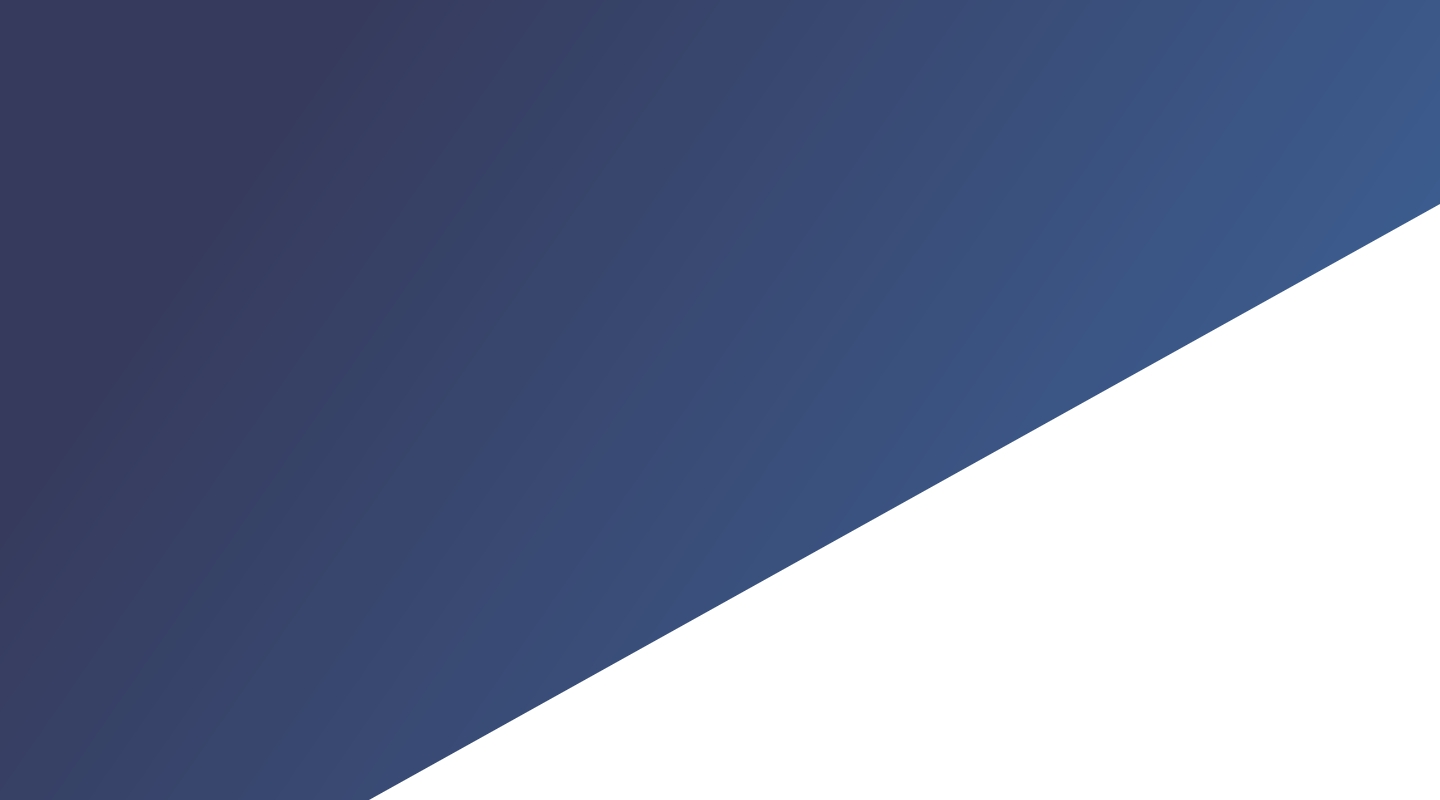
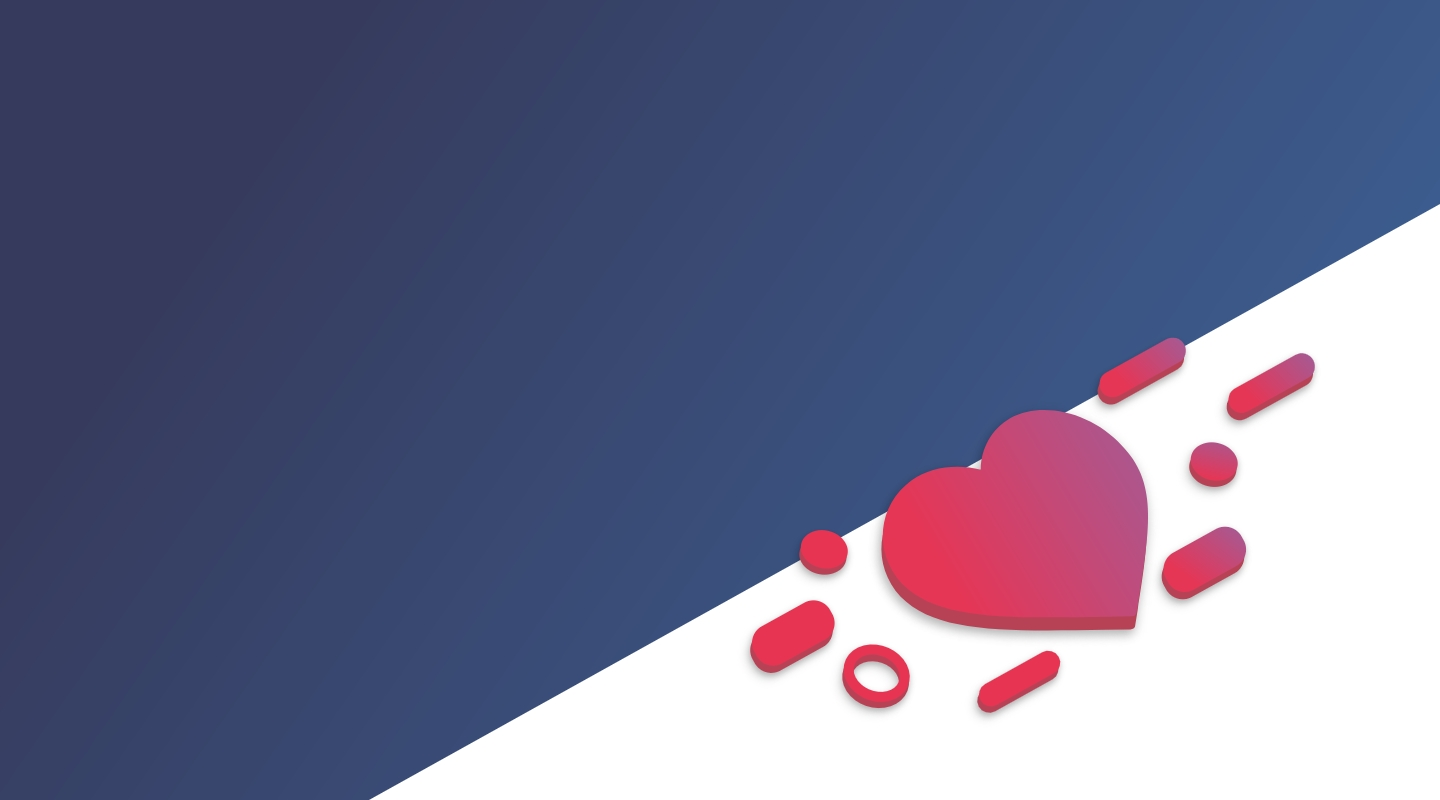
start page update

Changed region(s): [[0.5, 0.4062, 0.875, 0.9062], [0.8438, 0.4375, 0.9375, 0.5312]]

diff --git a/pages/start/index.css b/pages/start/index.css
@@ -1,13 +1,11 @@
-/*@font-face {
-    font-family: 'Geometria';
+@font-face {
+    font-family: 'Geometria', 'Gilroy';
     font-style: normal;
     font-weight: 400;
     src: local(''),
-    	url('/template/fonts/Geometria-ExtraBold.eot') format('eot'),
     	url('/template/fonts/Geometria-ExtraBold.ttf') format('ttf'),
-    	url('/template/fonts/Geometria-ExtraBold.woff') format('woff'),
-    	url('/template/fonts/Geometria-ExtraBold.woff2') format('woff2');
-}*/
+    	url('/template/fonts/gilroy-light.otf') format('otf');
+}
 
 ul {
 	padding: 0;
@@ -15,8 +13,8 @@ ul {
 
 body {
 	color: #FFFFFF;
-	/*font-family: 'Geometria';
-	font-weight: 400;*/
+	font-family: 'Geometria';
+	font-weight: 400;
 	font-size: 18px;
 	line-height: 21px;	
 }
@@ -35,9 +33,8 @@ button {
 }
 
 .wrapper-full {
-	
-	max-width: 1500px;
-	padding: 0 30px 0 30px;
+	max-width: 1440px;
+	padding: 0 30px;
 	margin: 0 auto;
 }
 
@@ -63,10 +60,17 @@ button {
 
 .header__languages {
 	margin-top: 30px;
-	margin-right: 222px;
+	margin-right: auto;
+}
+
+.languages__list {
+	display: flex;
 }
 
 .languages__list-item {
+	font-weight: 500;
+	font-size: 14px;
+	line-height: 18px;
 	margin-right: 10px;
 	color: #C5D5E6;
 }
@@ -85,7 +89,14 @@ button {
 	color: #C5D5E6;
 }
 
+.menu__list {
+	display: flex;
+}
+
 .menu__list-item {
+	font-weight: 800;
+	font-size: 14px;
+	line-height: 18px;
 	margin-right: 35px;
 	padding: 9px 0 4px 0;
 }
@@ -108,16 +119,16 @@ button {
 }
 
 .header__authorization {
+	mix-blend-mode: normal;
+	opacity: 0.5;
 	margin-top: 30px;
 	color: #C5D5E6;
 }
 
-.languages__list {
-	display: flex;
-}
-
-.menu__list {
-	display: flex;
+.authorization__sign-in {
+	font-weight: 500;
+	font-size: 14px;
+	line-height: 18px;
 }
 /* header styles end */
 
@@ -139,11 +150,14 @@ button {
 
 .info__title {
 	display: flex;
+	align-items: center;
 	margin-bottom: 77px;
 }
 
 .info__title-text {
+	font-weight: 800;
 	font-size: 64px;
+	line-height: 81px;
 	color: #FFFFFF;
 	margin-right: 18px;
 }
@@ -153,6 +167,8 @@ button {
 }
 
 .link-more {
+	font-weight: 500;
+	line-height: 23px;
 	margin-right: 10px;
 }
 
@@ -172,10 +188,11 @@ button {
 }
 
 .info__acts-message {
+	font-family: 'Gilroy';
+	font-weight: 300;
 	width: 456px;
 	margin-bottom: 20px;
 	color: #FFFFFF;
-	line-height: 22px;
 }
 
 .info__acts-links {
@@ -191,15 +208,19 @@ button {
 }
 
 .how-text {
+	font-weight: 500;
+	line-height: 23px;
 	margin-right: 8px;
 }
 
 .links__btn-now {
 	color: #FFFFFF;
+	font-weight: 500;
+	line-height: 23px;
 	padding: 17px 20px 11px 24px;
 	background: rgba(0, 0, 0, 0.2);
 	mix-blend-mode: normal;
-	/*box-shadow: 0px 0px 7px 2px #9D5E9A, 0px 0px 15px 10px #E53656;*/
+	box-shadow: 0px 0px 7px 2px #9D5E9A, 0px 0px 15px 10px #E53656;
 	border-radius: 10px;
 }
 
@@ -218,6 +239,8 @@ button {
 }
 
 .info__project-suggestion {
+	font-family: 'Gilroy';
+	font-weight: 300;
 	color: #FFFFFF;
 	margin-bottom: 35px;
 }
@@ -227,19 +250,15 @@ button {
 }
 
 .project-link__text {
+	font-weight: 500;
+	line-height: 23px;
 	margin-right: 13px;
-}
-
-.about__pic {
-	height: 419px;
-	width: 546px;
-	transform: translateY(125px);
 }
 /* about styles end */
 
 /* footer styles start */
 .footer {
-	position: absolute;
+	position: fixed;
 	bottom: 0;
 	margin-left: 70px;
 	margin-bottom: 27px;
@@ -252,8 +271,11 @@ button {
 }
 
 .socials__text {
-	margin-right: 14px;
+	font-weight: 800;
+	font-size: 14px;
+	line-height: 18px;
 	color: #C5D5E6;
+	margin-right: 14px;
 }
 
 .socials__list {
@@ -274,7 +296,5 @@ button {
 	position: absolute;
 	right: 0;
 	bottom: 0;
-	width: 90px;
-	height: 90px;
 }
 /* chat styles  */

diff --git a/pages/start/index.html b/pages/start/index.html
@@ -73,9 +73,6 @@
 					</a>
 				</div>
 			</div>
-			<div class="about__pic">
-				<img src="template/img/svg/heart.svg" alt="heart" class="about__pic-heart">
-			</div>
 		</section>
 
 		<footer class="footer">
